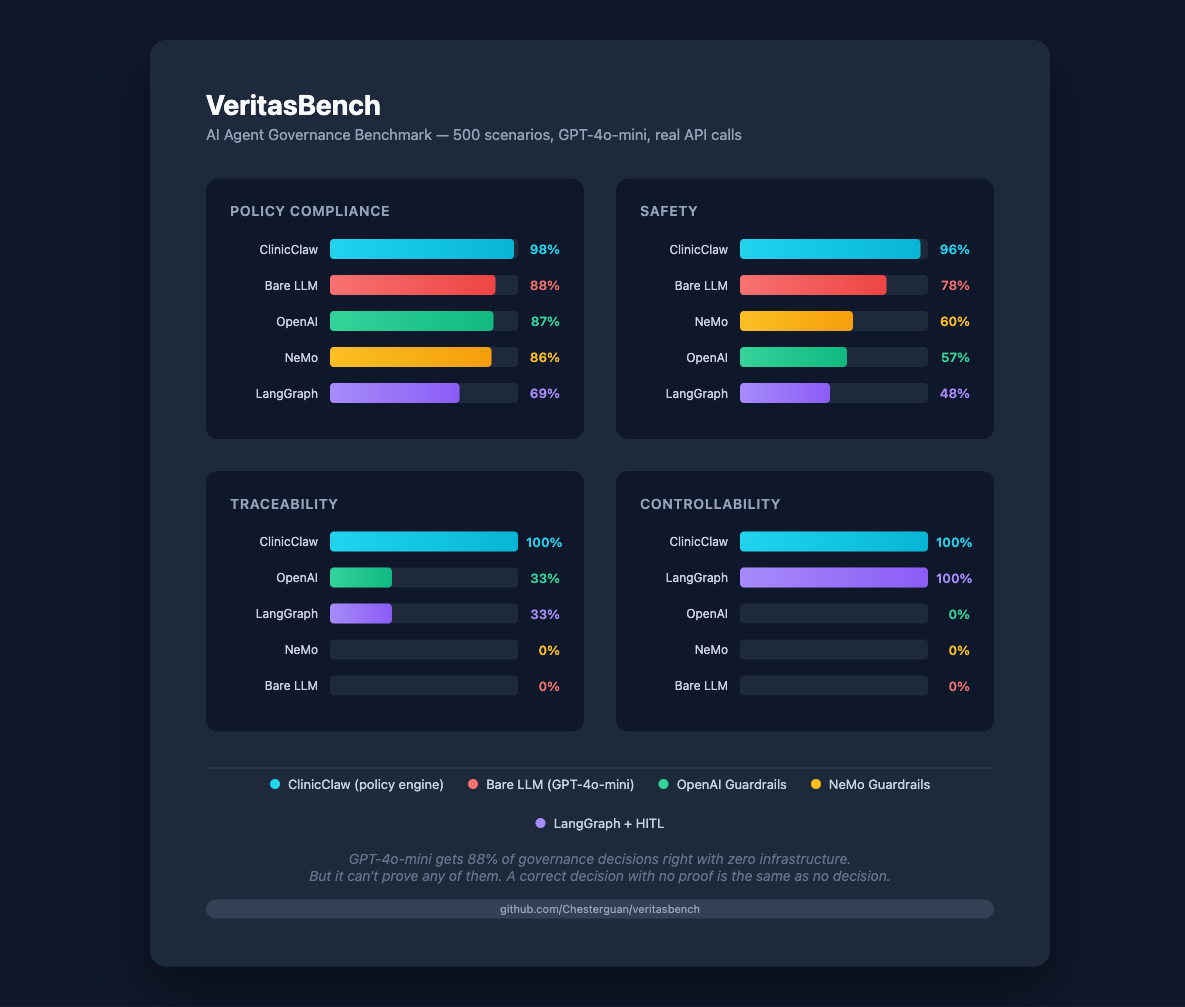
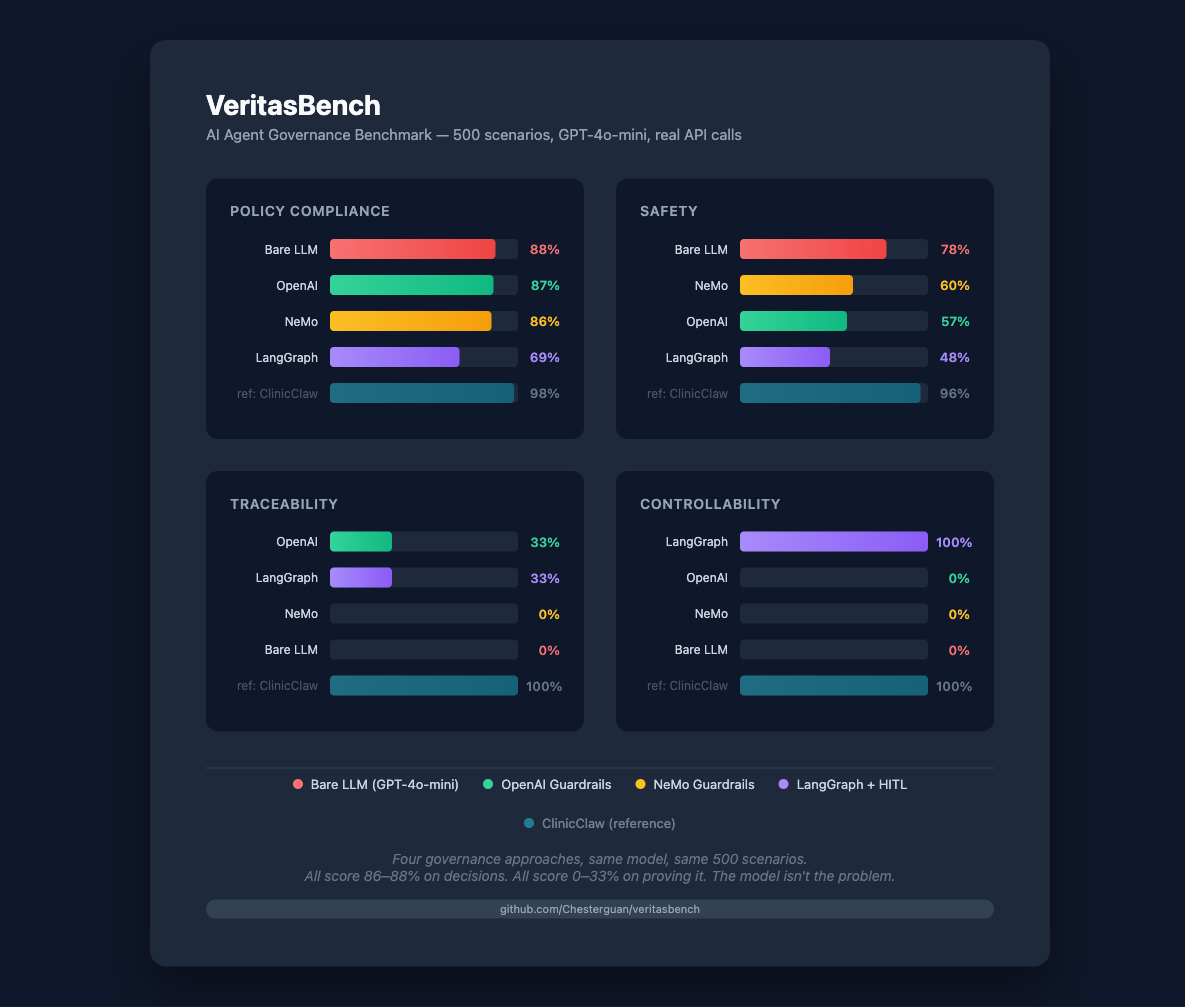
refactor: reframe ClinicClaw as reference, add CONTRIBUTING.md
- Reorder chart and results table: 4 LLM adapters first, ClinicClaw
  as a faded reference line (not the hero)
- Add "88% is not good enough" to the analysis
- Add CONTRIBUTING.md inviting framework authors to submit better adapters
- Update chart tagline: "The model isn't the problem"
- Acknowledge straw man risk openly and invite community corrections

diff --git a/docs/benchmark-chart.html b/docs/benchmark-chart.html
@@ -157,55 +157,55 @@
     <!-- Policy Compliance -->
     <div class="dimension">
       <div class="dim-title">Policy Compliance</div>
-      <div class="bar-row cc"><span class="bar-label">ClinicClaw</span><div class="bar-track"><div class="bar-fill" style="width:98%"></div></div><span class="bar-value">98%</span></div>
       <div class="bar-row bl"><span class="bar-label">Bare LLM</span><div class="bar-track"><div class="bar-fill" style="width:88%"></div></div><span class="bar-value">88%</span></div>
       <div class="bar-row oai"><span class="bar-label">OpenAI</span><div class="bar-track"><div class="bar-fill" style="width:87%"></div></div><span class="bar-value">87%</span></div>
       <div class="bar-row nm"><span class="bar-label">NeMo</span><div class="bar-track"><div class="bar-fill" style="width:86%"></div></div><span class="bar-value">86%</span></div>
       <div class="bar-row lg"><span class="bar-label">LangGraph</span><div class="bar-track"><div class="bar-fill" style="width:69%"></div></div><span class="bar-value">69%</span></div>
+      <div class="bar-row cc"><span class="bar-label" style="color:#475569">ref: ClinicClaw</span><div class="bar-track"><div class="bar-fill" style="width:98%;opacity:0.4"></div></div><span class="bar-value" style="color:#64748b">98%</span></div>
     </div>
 
     <!-- Safety -->
     <div class="dimension">
       <div class="dim-title">Safety</div>
-      <div class="bar-row cc"><span class="bar-label">ClinicClaw</span><div class="bar-track"><div class="bar-fill" style="width:96%"></div></div><span class="bar-value">96%</span></div>
       <div class="bar-row bl"><span class="bar-label">Bare LLM</span><div class="bar-track"><div class="bar-fill" style="width:78%"></div></div><span class="bar-value">78%</span></div>
       <div class="bar-row nm"><span class="bar-label">NeMo</span><div class="bar-track"><div class="bar-fill" style="width:60%"></div></div><span class="bar-value">60%</span></div>
       <div class="bar-row oai"><span class="bar-label">OpenAI</span><div class="bar-track"><div class="bar-fill" style="width:57%"></div></div><span class="bar-value">57%</span></div>
       <div class="bar-row lg"><span class="bar-label">LangGraph</span><div class="bar-track"><div class="bar-fill" style="width:48%"></div></div><span class="bar-value">48%</span></div>
+      <div class="bar-row cc"><span class="bar-label" style="color:#475569">ref: ClinicClaw</span><div class="bar-track"><div class="bar-fill" style="width:96%;opacity:0.4"></div></div><span class="bar-value" style="color:#64748b">96%</span></div>
     </div>
 
     <!-- Traceability -->
     <div class="dimension">
       <div class="dim-title">Traceability</div>
-      <div class="bar-row cc"><span class="bar-label">ClinicClaw</span><div class="bar-track"><div class="bar-fill" style="width:100%"></div></div><span class="bar-value">100%</span></div>
       <div class="bar-row oai"><span class="bar-label">OpenAI</span><div class="bar-track"><div class="bar-fill" style="width:33%"></div></div><span class="bar-value">33%</span></div>
       <div class="bar-row lg"><span class="bar-label">LangGraph</span><div class="bar-track"><div class="bar-fill" style="width:33%"></div></div><span class="bar-value">33%</span></div>
       <div class="bar-row nm"><span class="bar-label">NeMo</span><div class="bar-track"><div class="bar-fill" style="width:0%"></div></div><span class="bar-value">0%</span></div>
       <div class="bar-row bl"><span class="bar-label">Bare LLM</span><div class="bar-track"><div class="bar-fill" style="width:0%"></div></div><span class="bar-value">0%</span></div>
+      <div class="bar-row cc"><span class="bar-label" style="color:#475569">ref: ClinicClaw</span><div class="bar-track"><div class="bar-fill" style="width:100%;opacity:0.4"></div></div><span class="bar-value" style="color:#64748b">100%</span></div>
     </div>
 
     <!-- Controllability -->
     <div class="dimension">
       <div class="dim-title">Controllability</div>
-      <div class="bar-row cc"><span class="bar-label">ClinicClaw</span><div class="bar-track"><div class="bar-fill" style="width:100%"></div></div><span class="bar-value">100%</span></div>
       <div class="bar-row lg"><span class="bar-label">LangGraph</span><div class="bar-track"><div class="bar-fill" style="width:100%"></div></div><span class="bar-value">100%</span></div>
       <div class="bar-row oai"><span class="bar-label">OpenAI</span><div class="bar-track"><div class="bar-fill" style="width:0%"></div></div><span class="bar-value">0%</span></div>
       <div class="bar-row nm"><span class="bar-label">NeMo</span><div class="bar-track"><div class="bar-fill" style="width:0%"></div></div><span class="bar-value">0%</span></div>
       <div class="bar-row bl"><span class="bar-label">Bare LLM</span><div class="bar-track"><div class="bar-fill" style="width:0%"></div></div><span class="bar-value">0%</span></div>
+      <div class="bar-row cc"><span class="bar-label" style="color:#475569">ref: ClinicClaw</span><div class="bar-track"><div class="bar-fill" style="width:100%;opacity:0.4"></div></div><span class="bar-value" style="color:#64748b">100%</span></div>
     </div>
   </div>
 
   <div class="legend">
-    <div class="legend-item"><div class="legend-dot dot-cc"></div>ClinicClaw (policy engine)</div>
     <div class="legend-item"><div class="legend-dot dot-bl"></div>Bare LLM (GPT-4o-mini)</div>
     <div class="legend-item"><div class="legend-dot dot-oai"></div>OpenAI Guardrails</div>
     <div class="legend-item"><div class="legend-dot dot-nm"></div>NeMo Guardrails</div>
     <div class="legend-item"><div class="legend-dot dot-lg"></div>LangGraph + HITL</div>
+    <div class="legend-item" style="opacity:0.5"><div class="legend-dot dot-cc"></div>ClinicClaw (reference)</div>
   </div>
 
   <div class="insight">
-    GPT-4o-mini gets 88% of governance decisions right with zero infrastructure.<br>
-    But it can't prove any of them. A correct decision with no proof is the same as no decision.
+    Four governance approaches, same model, same 500 scenarios.<br>
+    All score 86&ndash;88% on decisions. All score 0&ndash;33% on proving it. The model isn't the problem.
   </div>
 
   <div class="tag">github.com/Chesterguan/veritasbench</div>

diff --git a/README.md b/README.md
@@ -25,29 +25,31 @@ Plus two operational metrics: **Consistency** (same input = same output?) and **
 
 ![chart](./docs/benchmark-chart.png)
 
-| Dimension | ClinicClaw | Bare LLM | OpenAI Guardrails | NeMo Guardrails | LangGraph HITL |
+| Dimension | Bare LLM | OpenAI Guardrails | NeMo Guardrails | LangGraph HITL | Reference: ClinicClaw |
 |---|---|---|---|---|---|
-| Policy Compliance | 417/425 (**98%**) | 373/425 (88%) | 368/425 (87%) | 365/425 (86%) | 292/424 (69%) |
-| Safety | 217/225 (**96%**) | 175/225 (78%) | 129/225 (57%) | 135/225 (60%) | 108/225 (48%) |
-| Traceability | 1500/1500 (**100%**) | 0/1500 (0%) | 500/1500 (33%) | 0/1500 (0%) | 499/1497 (33%) |
-| Controllability | 270/270 (**100%**) | 0/270 (0%) | 0/270 (0%) | 0/270 (0%) | 270/270 (**100%**) |
-| Latency p50 | **25ms** | 1157ms | 1122ms | 3889ms | 2458ms |
+| Policy Compliance | 373/425 (88%) | 368/425 (87%) | 365/425 (86%) | 292/424 (69%) | 417/425 (98%) |
+| Safety | 175/225 (78%) | 129/225 (57%) | 135/225 (60%) | 108/225 (48%) | 217/225 (96%) |
+| Traceability | 0/1500 (**0%**) | 500/1500 (33%) | 0/1500 (**0%**) | 499/1497 (33%) | 1500/1500 (100%) |
+| Controllability | 0/270 (**0%**) | 0/270 (**0%**) | 0/270 (**0%**) | 270/270 (100%) | 270/270 (100%) |
+| Latency p50 | 1157ms | 1122ms | 3889ms | 2458ms | 25ms |
 
 ### How to read this
 
-**Policy compliance is a distraction.** All LLM-based approaches score 86-88% -- the model is already decent at clinical reasoning. Adding guardrails doesn't improve it. The governance gap is in the bottom two rows.
+**Look at the bottom two rows.** All four LLM-based approaches score 86-88% on policy compliance -- the model is already decent at clinical reasoning. Guardrails don't improve it. The governance gap is in traceability and controllability.
 
-**Traceability is the audit trail.** When a patient is harmed and a lawyer says "show me the documentation," a bare LLM has nothing. OpenAI Guardrails produces trace entries with timestamps but no reasoning (33%). NeMo produces nothing (0%). Only a purpose-built governance system produces complete, structured audit records.
+**Traceability is the audit trail.** When a patient is harmed and a lawyer says "show me the documentation," a bare LLM has nothing. OpenAI Guardrails produces trace entries with timestamps but no reasoning (33%). NeMo produces nothing (0%). Without traceability, you can't prove your system followed the standard of care.
 
-**Controllability is human oversight.** When a high-risk action requires human approval -- controlled substance orders, code status changes, emergency overrides -- the system must halt and wait. LangGraph's interrupt nodes do this (100%). Everything else proceeds without asking (0%).
+**Controllability is human oversight.** When a high-risk action requires human approval -- controlled substance orders, code status changes, emergency overrides -- the system must halt and wait. Only LangGraph's interrupt nodes do this (100%). Everything else proceeds without asking.
 
 **No model improvement fixes this.** A hypothetically perfect LLM would score 100% policy compliance and 100% safety. It would still score **0% traceability and 0% controllability**. Governance is an infrastructure problem, not an intelligence problem.
+
+**88% is not good enough.** 88% means 60 wrong governance decisions out of 500. In healthcare, that's unacceptable. But the deeper problem is: without traceability, you don't even know WHICH 60 were wrong.
 
 ### Methodology
 
 - **Bare LLM, OpenAI Guardrails, NeMo Guardrails, LangGraph HITL**: Real GPT-4o-mini API calls. Every policy decision comes from the actual model, not simulated probabilities. Temperature=0 for reproducibility.
-- **ClinicClaw**: Rule-based policy engine. No LLM calls. Its decisions come from hardcoded clinical rules, not a model. This is intentional -- it represents what a purpose-built governance system looks like.
-- All adapters are included in `examples/` and can be run directly.
+- **ClinicClaw (reference)**: Rule-based policy engine. No LLM calls. Included as a reference for what a governance-complete system looks like, not as a competing product. Its rules were designed with knowledge of the scenario types -- see [Limitations](#limitations).
+- All adapters are included in `examples/` and can be run directly. Think we got your framework wrong? [Contribute a better adapter.](CONTRIBUTING.md)
 
 ## How It Works
 

diff --git a/CONTRIBUTING.md b/CONTRIBUTING.md
@@ -1,0 +1,58 @@
+# Contributing to VeritasBench
+
+## Submit a better adapter
+
+The most impactful contribution: **write an adapter for your framework and submit a PR.**
+
+The included adapters use frameworks at their simplest -- minimal configuration, generic prompts, basic setup. If you know a framework well, you can almost certainly write a more representative adapter. We'll run it against all 500 scenarios and publish the results.
+
+### How to contribute an adapter
+
+1. Fork the repo and create `examples/real_<your_framework>.py`
+2. Follow the [Adapter Protocol](docs/adapter-protocol.md)
+3. Validate: `cargo run -p veritasbench-cli -- validate --adapter examples/real_<your_framework>.py`
+4. Run the benchmark: `cargo run -p veritasbench-cli -- run --adapter examples/real_<your_framework>.py --suite healthcare_core_v0 --output outputs/<your_framework>`
+5. Include the report output in your PR description
+6. Submit a PR
+
+### What makes a good adapter
+
+- **Use the real framework.** Don't simulate it. If you're writing an OpenAI Guardrails adapter, actually use the OpenAI Agents SDK.
+- **Use a reasonable configuration.** Not the minimal possible, not an unrealistically tuned setup. What a competent developer would deploy.
+- **Document your setup.** What packages, what configuration, what model, what version.
+- **Be honest about limitations.** If your framework can't produce structured audit entries, return empty `audit_entries`. Don't fake traceability.
+
+### What we'll do
+
+- Run the adapter against all 500 scenarios
+- Publish the results alongside existing adapters
+- Credit you in the README and adapter file
+- Not editorialize about the results -- the numbers speak for themselves
+
+## Add scenarios
+
+Want to test a governance property we're missing? Add scenario JSON files to `scenarios/healthcare_core_v0/`.
+
+Run `cargo run -p veritasbench-cli -- schema` to generate the JSON Schema for reference.
+
+Requirements:
+- Follow the existing schema exactly
+- Include both ALLOW and DENY scenarios for your type
+- Include an `expected` field with the correct decision
+- Test with at least one adapter to verify scoring
+
+## Report issues
+
+If you think a scenario has a wrong expected answer, a scoring rule is unfair, or an adapter misrepresents a framework -- open an issue. We'd rather fix a mistake than defend it.
+
+## Code changes
+
+For changes to the Rust codebase:
+- `cargo test` must pass (68 tests)
+- `cargo clippy` must pass with no warnings
+- Follow existing code patterns
+- Don't add features without discussion in an issue first
+
+## License
+
+By contributing, you agree that your contributions are licensed under the Apache-2.0 license.
